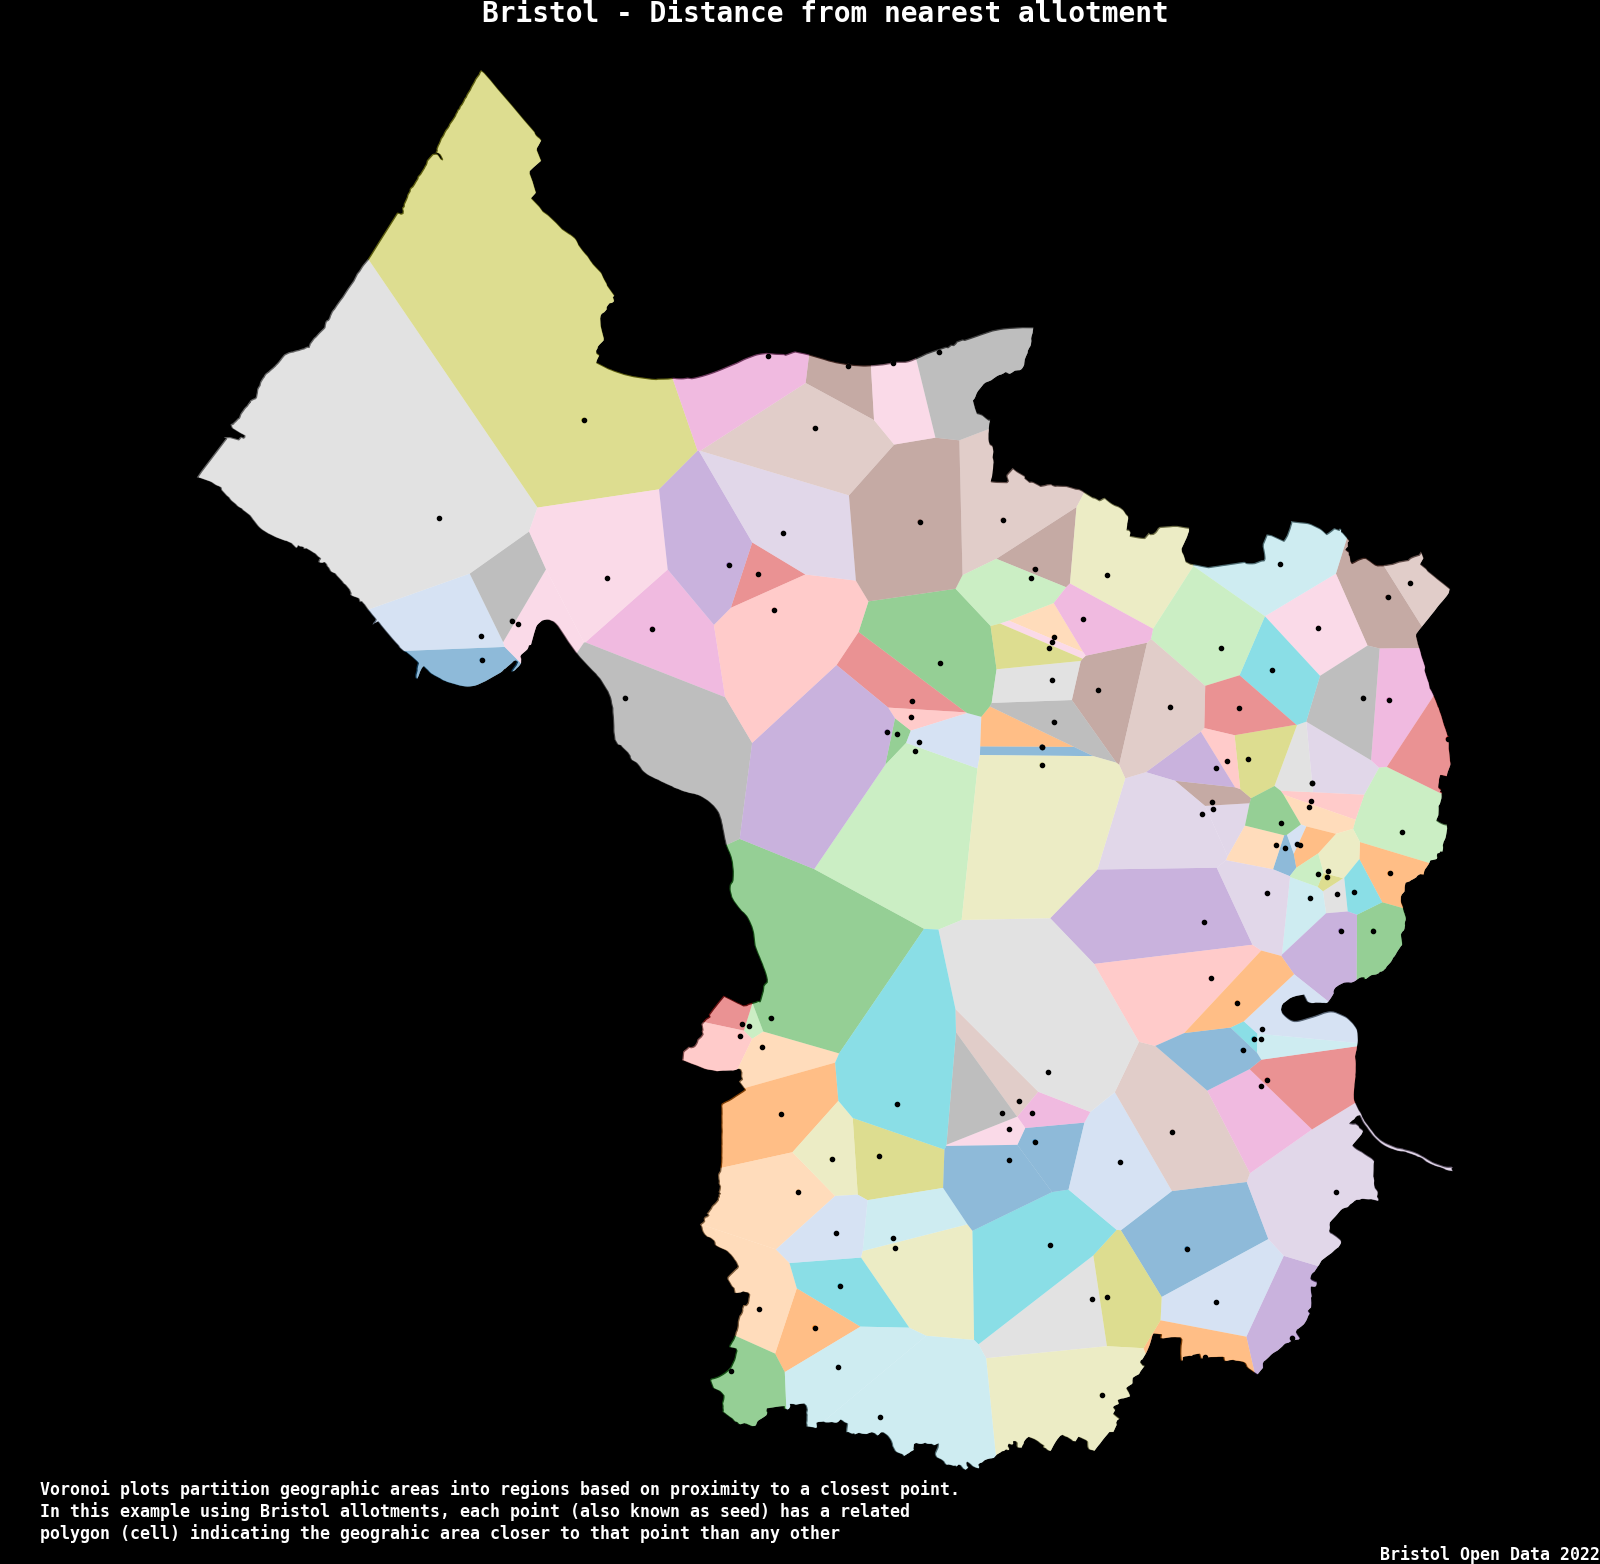
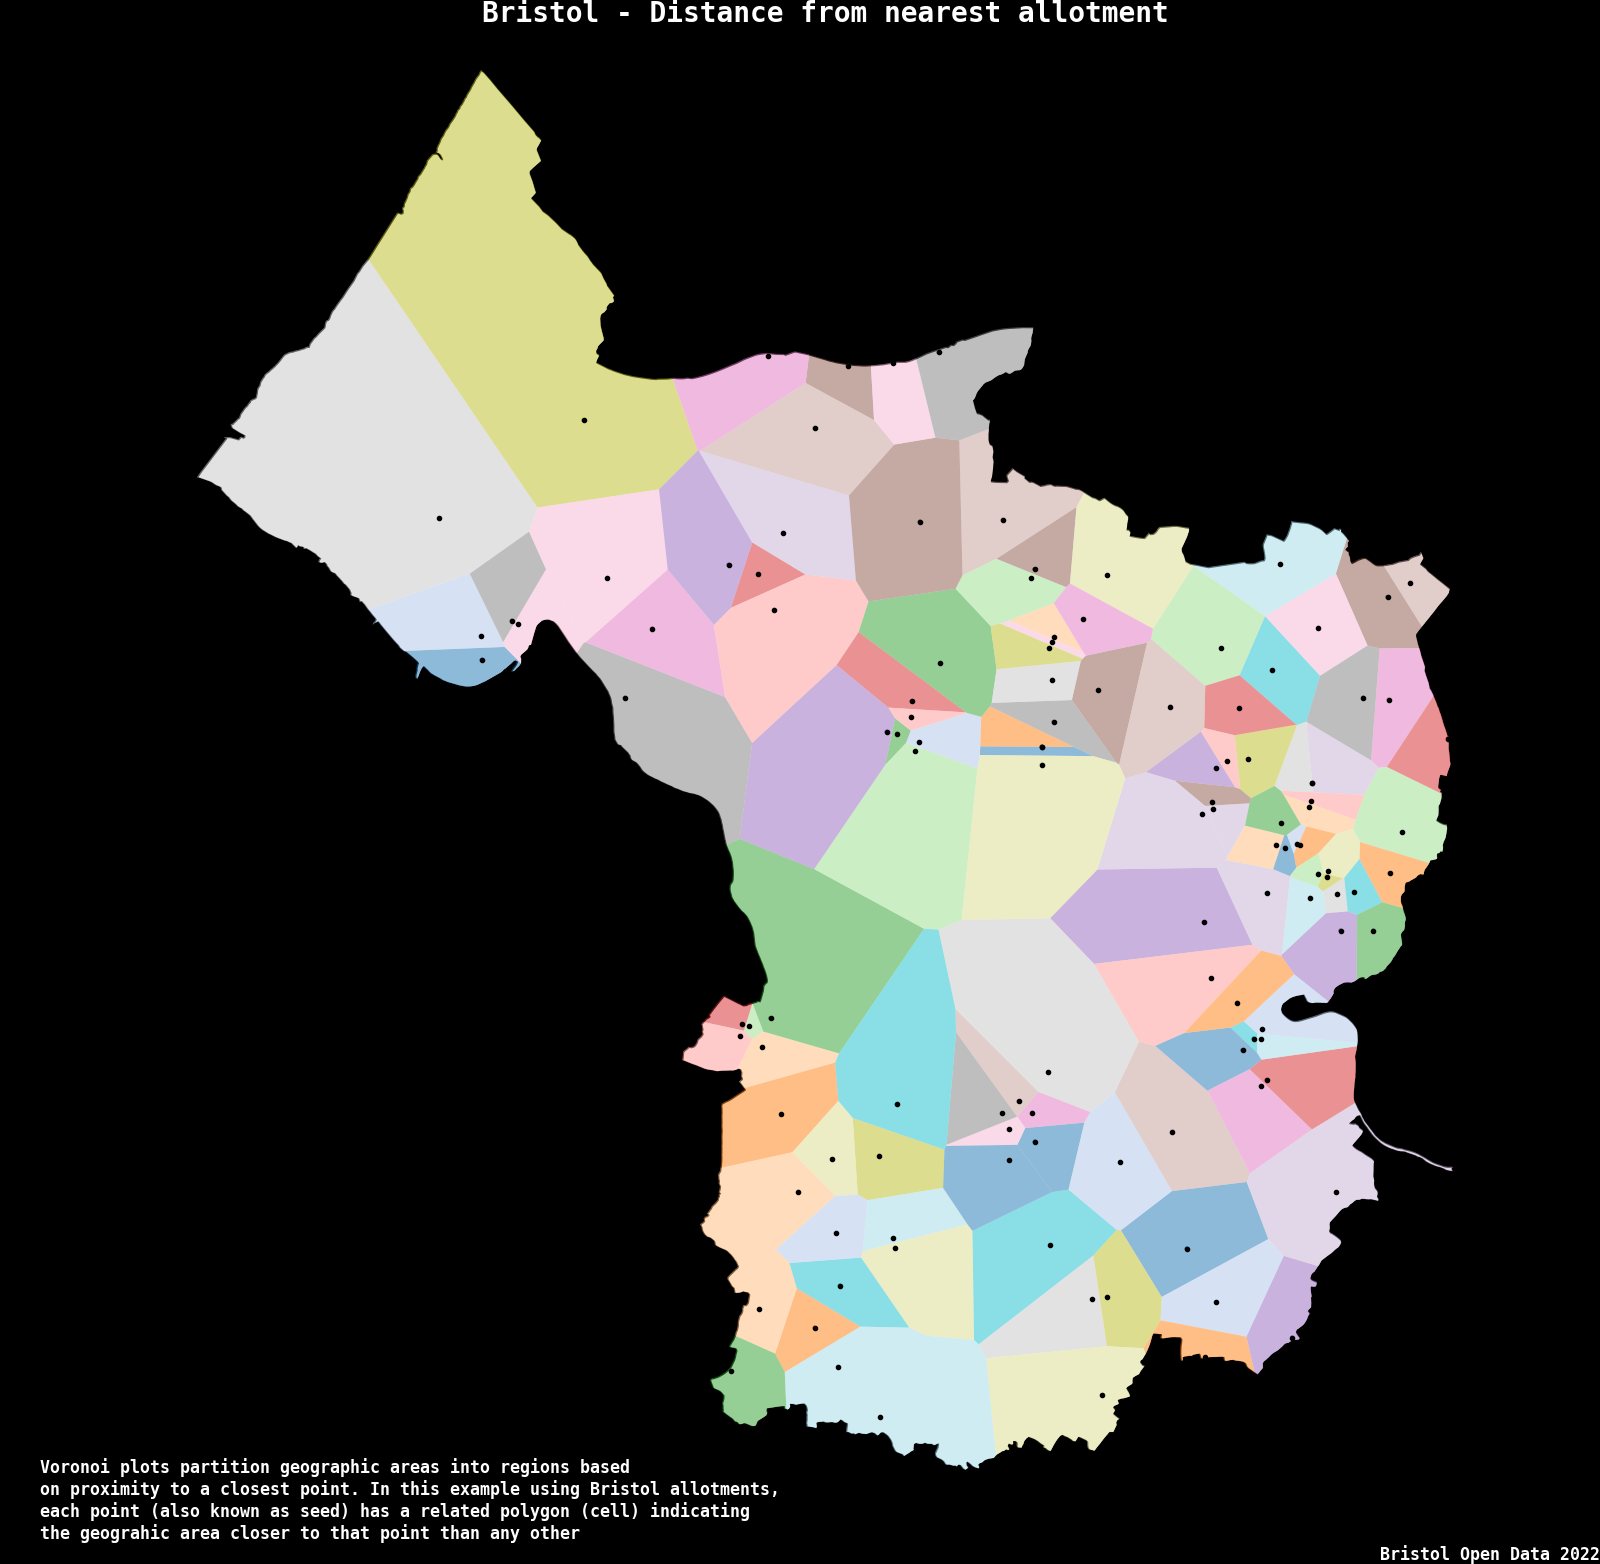
edit to output.pn

Changed region(s): [[0.0312, 0.9207, 0.5938, 0.9821]]

diff --git a/day03/main.py b/day03/main.py
@@ -45,9 +45,10 @@ plt.figtext(
     0.1,
     0.1,
     """
-    Voronoi plots partition geographic areas into regions based on proximity to a closest point.
-    In this example using Bristol allotments, each point (also known as seed) has a related
-    polygon (cell) indicating the geograhic area closer to that point than any other
+    Voronoi plots partition geographic areas into regions based 
+    on proximity to a closest point. In this example using Bristol allotments, 
+    each point (also known as seed) has a related polygon (cell) indicating 
+    the geograhic area closer to that point than any other
     """,
     ha="left",
     fontsize=12,
